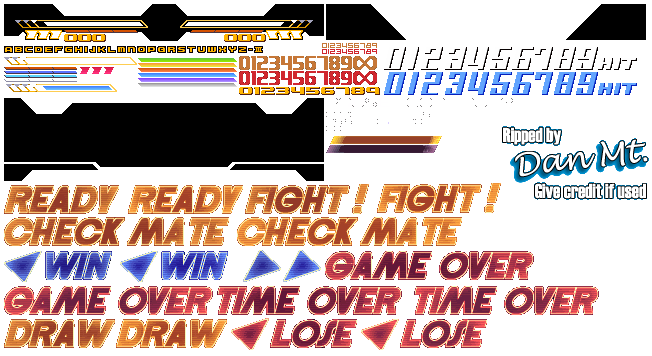
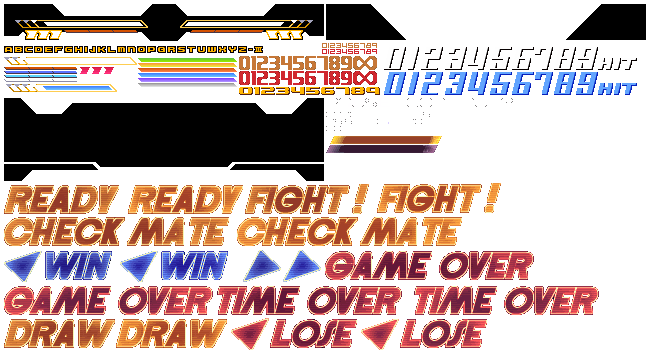
aggiunto esito sulla hud

Changed region(s): [[0.7669, 0.3399, 1.0, 0.5871], [0.3374, 0.0927, 0.4294, 0.1236], [0.092, 0.0927, 0.184, 0.1236]]

diff --git a/src/barile/vittorio/ui/Hud.java b/src/barile/vittorio/ui/Hud.java
@@ -1,7 +1,9 @@
 package barile.vittorio.ui;
 
+import barile.vittorio.engine.Spell;
 import barile.vittorio.ui.interfaces.OnVitalityListener;
 import barile.vittorio.utils.Resources;
+import lombok.Setter;
 
 import javax.swing.*;
 import java.awt.*;
@@ -14,20 +16,45 @@ public class Hud extends JPanel implements OnVitalityListener {
     public static final int PLAYER_1 = 0;
     public static final int PLAYER_2 = 1;
 
+    public static final int STATUS_FIGHT = 0;
+    public static final int STATUS_WIN = 1;
+    public static final int STATUS_LOSE = 2;
+    public static final int STATUS_DRAW = 3;
+    public static final int STATUS_GAME_OVER = 4;
+    public static final int STATUS_CHECK_MATE = 5;
+
     private BufferedImage img;
     private BufferedImage layout;
+    private BufferedImage vs;
 
     private BufferedImage lifebar_1;
     private BufferedImage lifebar_2;
+
+    private BufferedImage fight;
+    private BufferedImage win;
+    private BufferedImage lose;
+    private BufferedImage draw;
+    private BufferedImage game_over;
+    private BufferedImage check_mate;
+
+    private BufferedImage fire;
+    private BufferedImage frost;
+    private BufferedImage arcane;
+
+    private BufferedImage spell_1;
+    private BufferedImage spell_2;
 
     private final int max_life = 250;
 
     private int player_1_life;
     private int player_2_life;
 
+    @Setter
+    private int status;
+
     public Hud() {
         super();
-        setSize(MainWindow.LARGHEZZA, 100);
+        setSize(MainWindow.LARGHEZZA, 300);
         setLocation(0, 0);
 
         setBackground(null);
@@ -37,8 +64,23 @@ public class Hud extends JPanel implements OnVitalityListener {
         this.img = Resources.getImage("assets/images/hud_lifebar.png");
         this.layout = this.img.getSubimage(4, 4, 318, 42);
 
+        this.vs = Resources.getImage("assets/images/Vs.png");
+
         this.lifebar_1 = this.img.getSubimage(138, 68, 99, 4);
         this.lifebar_2 = this.img.getSubimage(138, 58, 99, 4);
+
+        this.fight = this.img.getSubimage(244,184,126,30);
+        this.win = this.img.getSubimage(44,250,69,30);
+        this.lose = this.img.getSubimage(269,319,90,30);
+        this.draw = this.img.getSubimage(3,318,113,30);
+        this.game_over = this.img.getSubimage(2,285,211,30);
+        this.check_mate = this.img.getSubimage(1,217,229,30);
+
+        this.fire = Resources.getImage("assets/images/fireball.jpg");
+        this.frost = Resources.getImage("assets/images/frostbolt.jpg");
+        this.arcane = Resources.getImage("assets/images/arcaneblast.jpg");
+
+        this.status = STATUS_FIGHT;
 
         restoreLifes();
     }
@@ -48,15 +90,51 @@ public class Hud extends JPanel implements OnVitalityListener {
         this.player_2_life = max_life;
     }
 
+    public void setStatus(int status, String spell_1, String spell_2) {
+        switch (this.status) {
+            case STATUS_GAME_OVER:
+            case STATUS_CHECK_MATE:
+                break;
+            default:
+                setStatus(status);
+                break;
+        }
+
+        switch (spell_1) {
+            case Spell.FIRE_TYPE:
+                this.spell_1 = this.fire;
+                break;
+            case Spell.FROST_TYPE:
+                this.spell_1 = this.frost;
+                break;
+            case Spell.ARCANE_TYPE:
+                this.spell_1 = this.arcane;
+                break;
+        }
+
+
+        switch (spell_2) {
+            case Spell.FIRE_TYPE:
+                this.spell_2 = this.fire;
+                break;
+            case Spell.FROST_TYPE:
+                this.spell_2 = this.frost;
+                break;
+            case Spell.ARCANE_TYPE:
+                this.spell_2 = this.arcane;
+                break;
+        }
+    }
+
     @Override
     public void addDamage(int player, int damage) {
         switch (player) {
             case PLAYER_1:
-                this.player_1_life -= (max_life/100)*damage;
+                this.player_1_life -= (max_life*damage)/100;
                 if(this.player_1_life <= 0) this.player_1_life = 0;
                 break;
             case PLAYER_2:
-                this.player_2_life -= (max_life/100)*damage;
+                this.player_2_life -= (max_life*damage)/100;
                 if(this.player_2_life <= 0) this.player_2_life = 0;
                 break;
         }
@@ -66,11 +144,11 @@ public class Hud extends JPanel implements OnVitalityListener {
     public void addHeal(int player, int heal) {
         switch (player) {
             case PLAYER_1:
-                this.player_1_life -= (max_life/100)*heal;
+                this.player_1_life -= (max_life*heal)/100;
                 if(this.player_1_life >= max_life) this.player_1_life = max_life;
                 break;
             case PLAYER_2:
-                this.player_2_life -= (max_life/100)*heal;
+                this.player_2_life -= (max_life*heal)/100;
                 if(this.player_2_life >= max_life) this.player_2_life = max_life;
                 break;
         }
@@ -82,7 +160,12 @@ public class Hud extends JPanel implements OnVitalityListener {
 
         g.drawImage(layout,
                 0, 0,
-                getWidth(), getHeight(),
+                getWidth(), 100,
+                this);
+
+        g.drawImage(vs,
+                370, 0,
+                75, 75,
                 this);
 
         g.drawImage(lifebar_1,
@@ -94,6 +177,47 @@ public class Hud extends JPanel implements OnVitalityListener {
                 705,43,
                 -player_2_life,9,
                 this);
+
+        BufferedImage result = null;
+        switch(status) {
+            case STATUS_FIGHT:
+                result = fight;
+                break;
+            case STATUS_GAME_OVER:
+                result = game_over;
+                break;
+            case STATUS_CHECK_MATE:
+                result = check_mate;
+                break;
+            case STATUS_WIN:
+                result = win;
+                break;
+            case STATUS_LOSE:
+                result = lose;
+                break;
+            case STATUS_DRAW:
+                result = draw;
+                break;
+        }
+
+        if(result != null)
+            g.drawImage(result,
+                (getWidth()/2)-(result.getWidth()/2), 150,
+                    result.getWidth(), result.getHeight(),
+                this);
+
+        if(spell_1 != null)
+            g.drawImage(spell_1,
+                175,150,
+                spell_1.getWidth(), spell_1.getHeight(),
+                this);
+
+
+        if(spell_2 != null)
+            g.drawImage(spell_2,
+                    getWidth()-250,150,
+                    spell_2.getWidth(), spell_2.getHeight(),
+                    this);
 
     }
 }

diff --git a/src/barile/vittorio/ui/MagePlayer.java b/src/barile/vittorio/ui/MagePlayer.java
@@ -11,6 +11,7 @@ import java.awt.*;
 import java.awt.geom.AffineTransform;
 import java.awt.image.AffineTransformOp;
 import java.awt.image.BufferedImage;
+import java.util.ArrayList;
 
 /**
  * Created by Vittorio on 08/10/2017.
@@ -35,6 +36,8 @@ public class MagePlayer extends JPanel {
     private int status;
     private int current_moment;
 
+    private ArrayList<Integer> statuses;
+
     public MagePlayer(String name, String accademic_class, String resource_path, OnVitalityEventListener listener) {
         super();
         setBackground(null);
@@ -48,13 +51,29 @@ public class MagePlayer extends JPanel {
 
         this.status = STATUS_IDLE;
         this.current_moment = 0;
+
+        this.statuses = new ArrayList<>();
     }
 
     public void setAsEnemy() {
         this.is_enemy = true;
     }
 
-    public void setStatus(int status) {
+    public void addStatus(int status) {
+        this.statuses.add(status);
+        if(this.status == STATUS_IDLE) goNextStatus();
+    }
+
+    private void goNextStatus() {
+        int next_status = STATUS_IDLE;
+
+        if(!statuses.isEmpty())
+            next_status = this.statuses.remove(0);
+
+        setStatus(next_status);
+    }
+
+    private void setStatus(int status) {
         this.status = status;
         current_moment = 0;
     }
@@ -95,7 +114,7 @@ public class MagePlayer extends JPanel {
                     case 2:
                         offscan = w;
                         w = w*2;
-                        status = STATUS_IDLE;
+                        goNextStatus();
                         break;
                 }
 
@@ -111,12 +130,12 @@ public class MagePlayer extends JPanel {
                         offscan = 1;
                         break;
                     case 1:
-                        w = w;
-                        offscan = w-7;
+                        w = w-3;
+                        offscan = w-3;
                         break;
                     case 2:
-                        offscan = w-5;
-                        status = STATUS_IDLE;
+                        offscan = w-8;
+                        goNextStatus();
                         break;
                 }
 
@@ -144,6 +163,7 @@ public class MagePlayer extends JPanel {
                         break;
                     case 3:
                         offscan = w - 30;
+                        goNextStatus();
                         break;
                 }
 

diff --git a/src/barile/vittorio/ui/GameField.java b/src/barile/vittorio/ui/GameField.java
@@ -82,8 +82,8 @@ public class GameField extends JPanel implements OnSpellListener, OnVitalityEven
 
     @Override
     public void onSpellCast(Spell spell) {
-        mage_1.setStatus(MagePlayer.STATUS_ATTACK);
-        mage_2.setStatus(MagePlayer.STATUS_ATTACK);
+        mage_1.addStatus(MagePlayer.STATUS_ATTACK);
+        mage_2.addStatus(MagePlayer.STATUS_ATTACK);
 
         Spell attack = mage_1.execAttack(spell);
 
@@ -94,25 +94,38 @@ public class GameField extends JPanel implements OnSpellListener, OnVitalityEven
 
         switch (attack.tryOffense(defense)) {
             case SPELL_DRAW:
+                hud.setStatus(Hud.STATUS_DRAW, attack.getType(), defense.getType());
                 break;
             case SPELL_WIN:
                 mage_2.obtainDamage(attack.getPower());
 
+                hud.setStatus(Hud.STATUS_WIN, attack.getType(), defense.getType());
                 hud.addDamage(PLAYER_2, attack.getPower());
-                mage_2.setStatus(MagePlayer.STATUS_DAMAGED);
+
+                mage_2.addStatus(MagePlayer.STATUS_DAMAGED);
                 break;
             case SPELL_LOSE:
                 mage_1.obtainDamage(defense.getPower());
 
+                hud.setStatus(Hud.STATUS_LOSE, attack.getType(), defense.getType());
                 hud.addDamage(PLAYER_1, defense.getPower());
-                mage_1.setStatus(MagePlayer.STATUS_DAMAGED);
+
+                mage_1.addStatus(MagePlayer.STATUS_DAMAGED);
                 break;
         }
     }
 
     @Override
     public void onDeath(String name) {
-        System.out.println(name+" e' morto!");
+        if(mage_1.getName().equals(name)) {
+            hud.setStatus(Hud.STATUS_GAME_OVER);
+            mage_1.addStatus(MagePlayer.STATUS_LOSE);
+            mage_2.addStatus(MagePlayer.STATUS_WIN);
+        } else {
+            hud.setStatus(Hud.STATUS_CHECK_MATE);
+            mage_1.addStatus(MagePlayer.STATUS_WIN);
+            mage_2.addStatus(MagePlayer.STATUS_LOSE);
+        }
     }
 
     public class Engine implements Runnable {
@@ -122,7 +135,7 @@ public class GameField extends JPanel implements OnSpellListener, OnVitalityEven
 
                 try {
                     // thread to sleep for 250 milliseconds
-                    Thread.sleep(250);
+                    Thread.sleep(200);
                 } catch (Exception e) {
                     System.out.println(e);
                 }

diff --git a/src/barile/vittorio/engine/Spell.java b/src/barile/vittorio/engine/Spell.java
@@ -26,18 +26,6 @@ public class Spell {
         this(name, type, 0);
     }
 
-    public String getName() {
-        return name;
-    }
-
-    public String getType() {
-        return type;
-    }
-
-    public int getPower() {
-        return power;
-    }
-
     private static int randomWithRange(int min, int max) {
         int range = (max - min) + 1;
         return (int)(Math.random() * range) + min;
